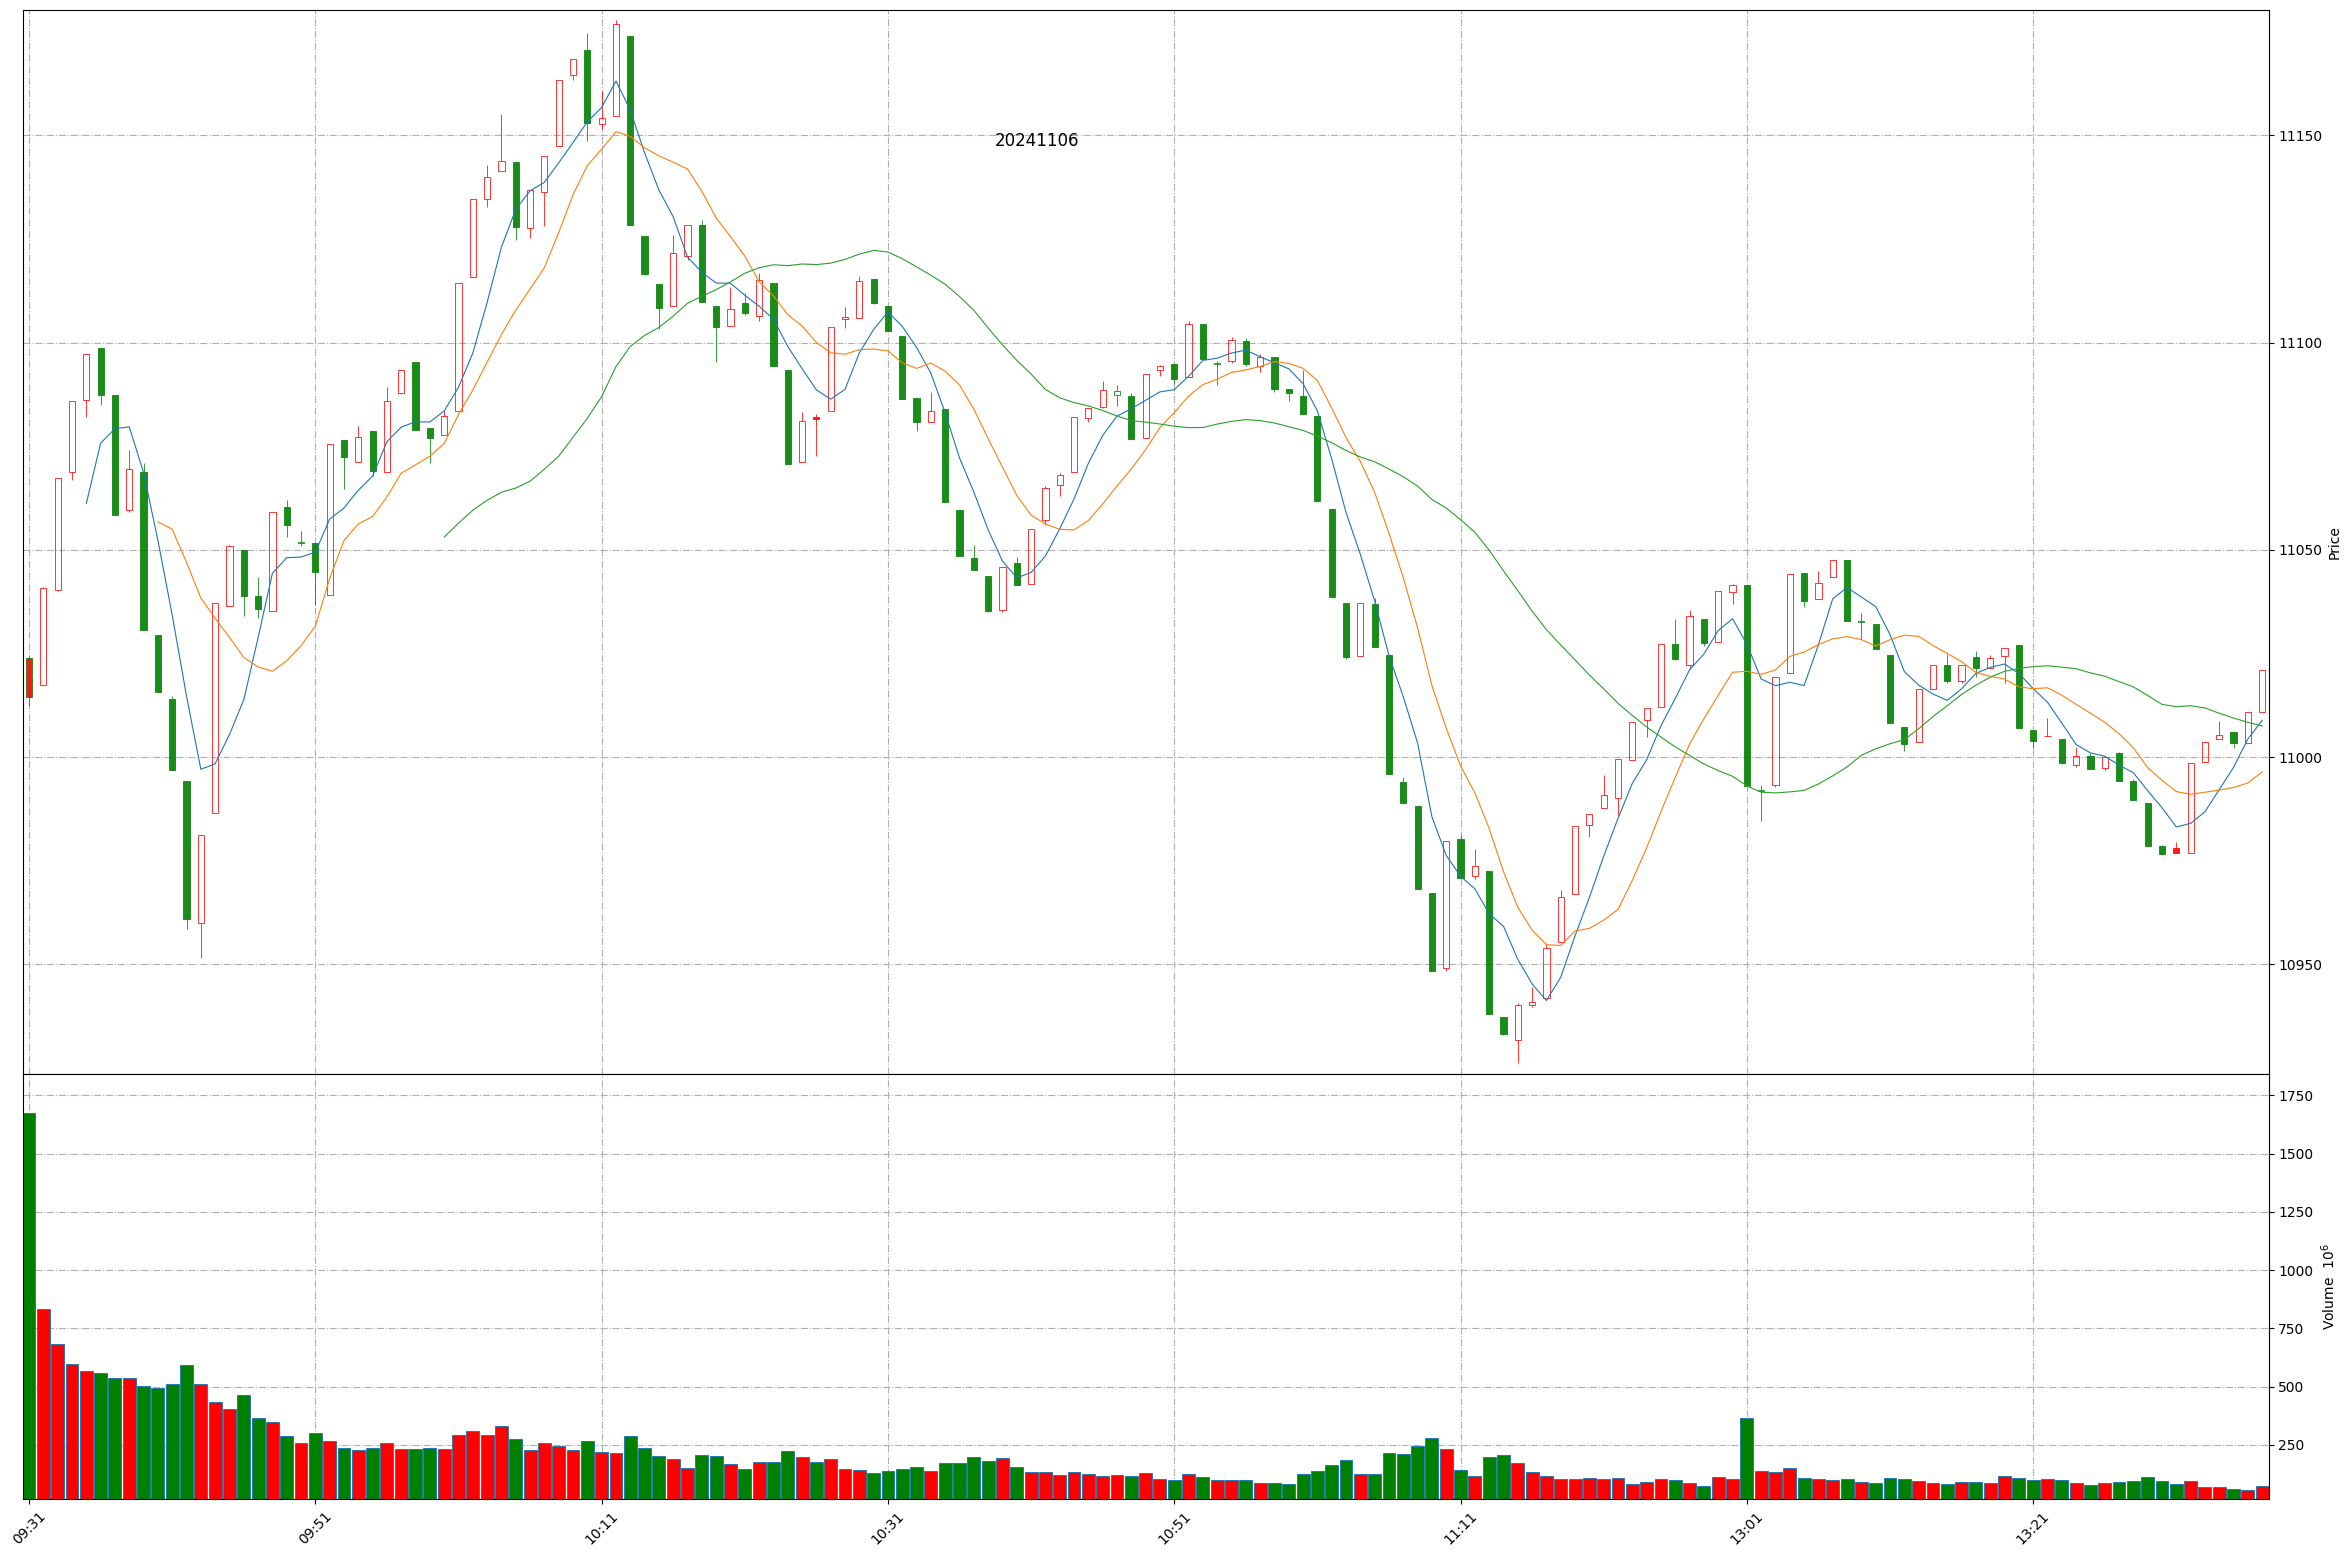
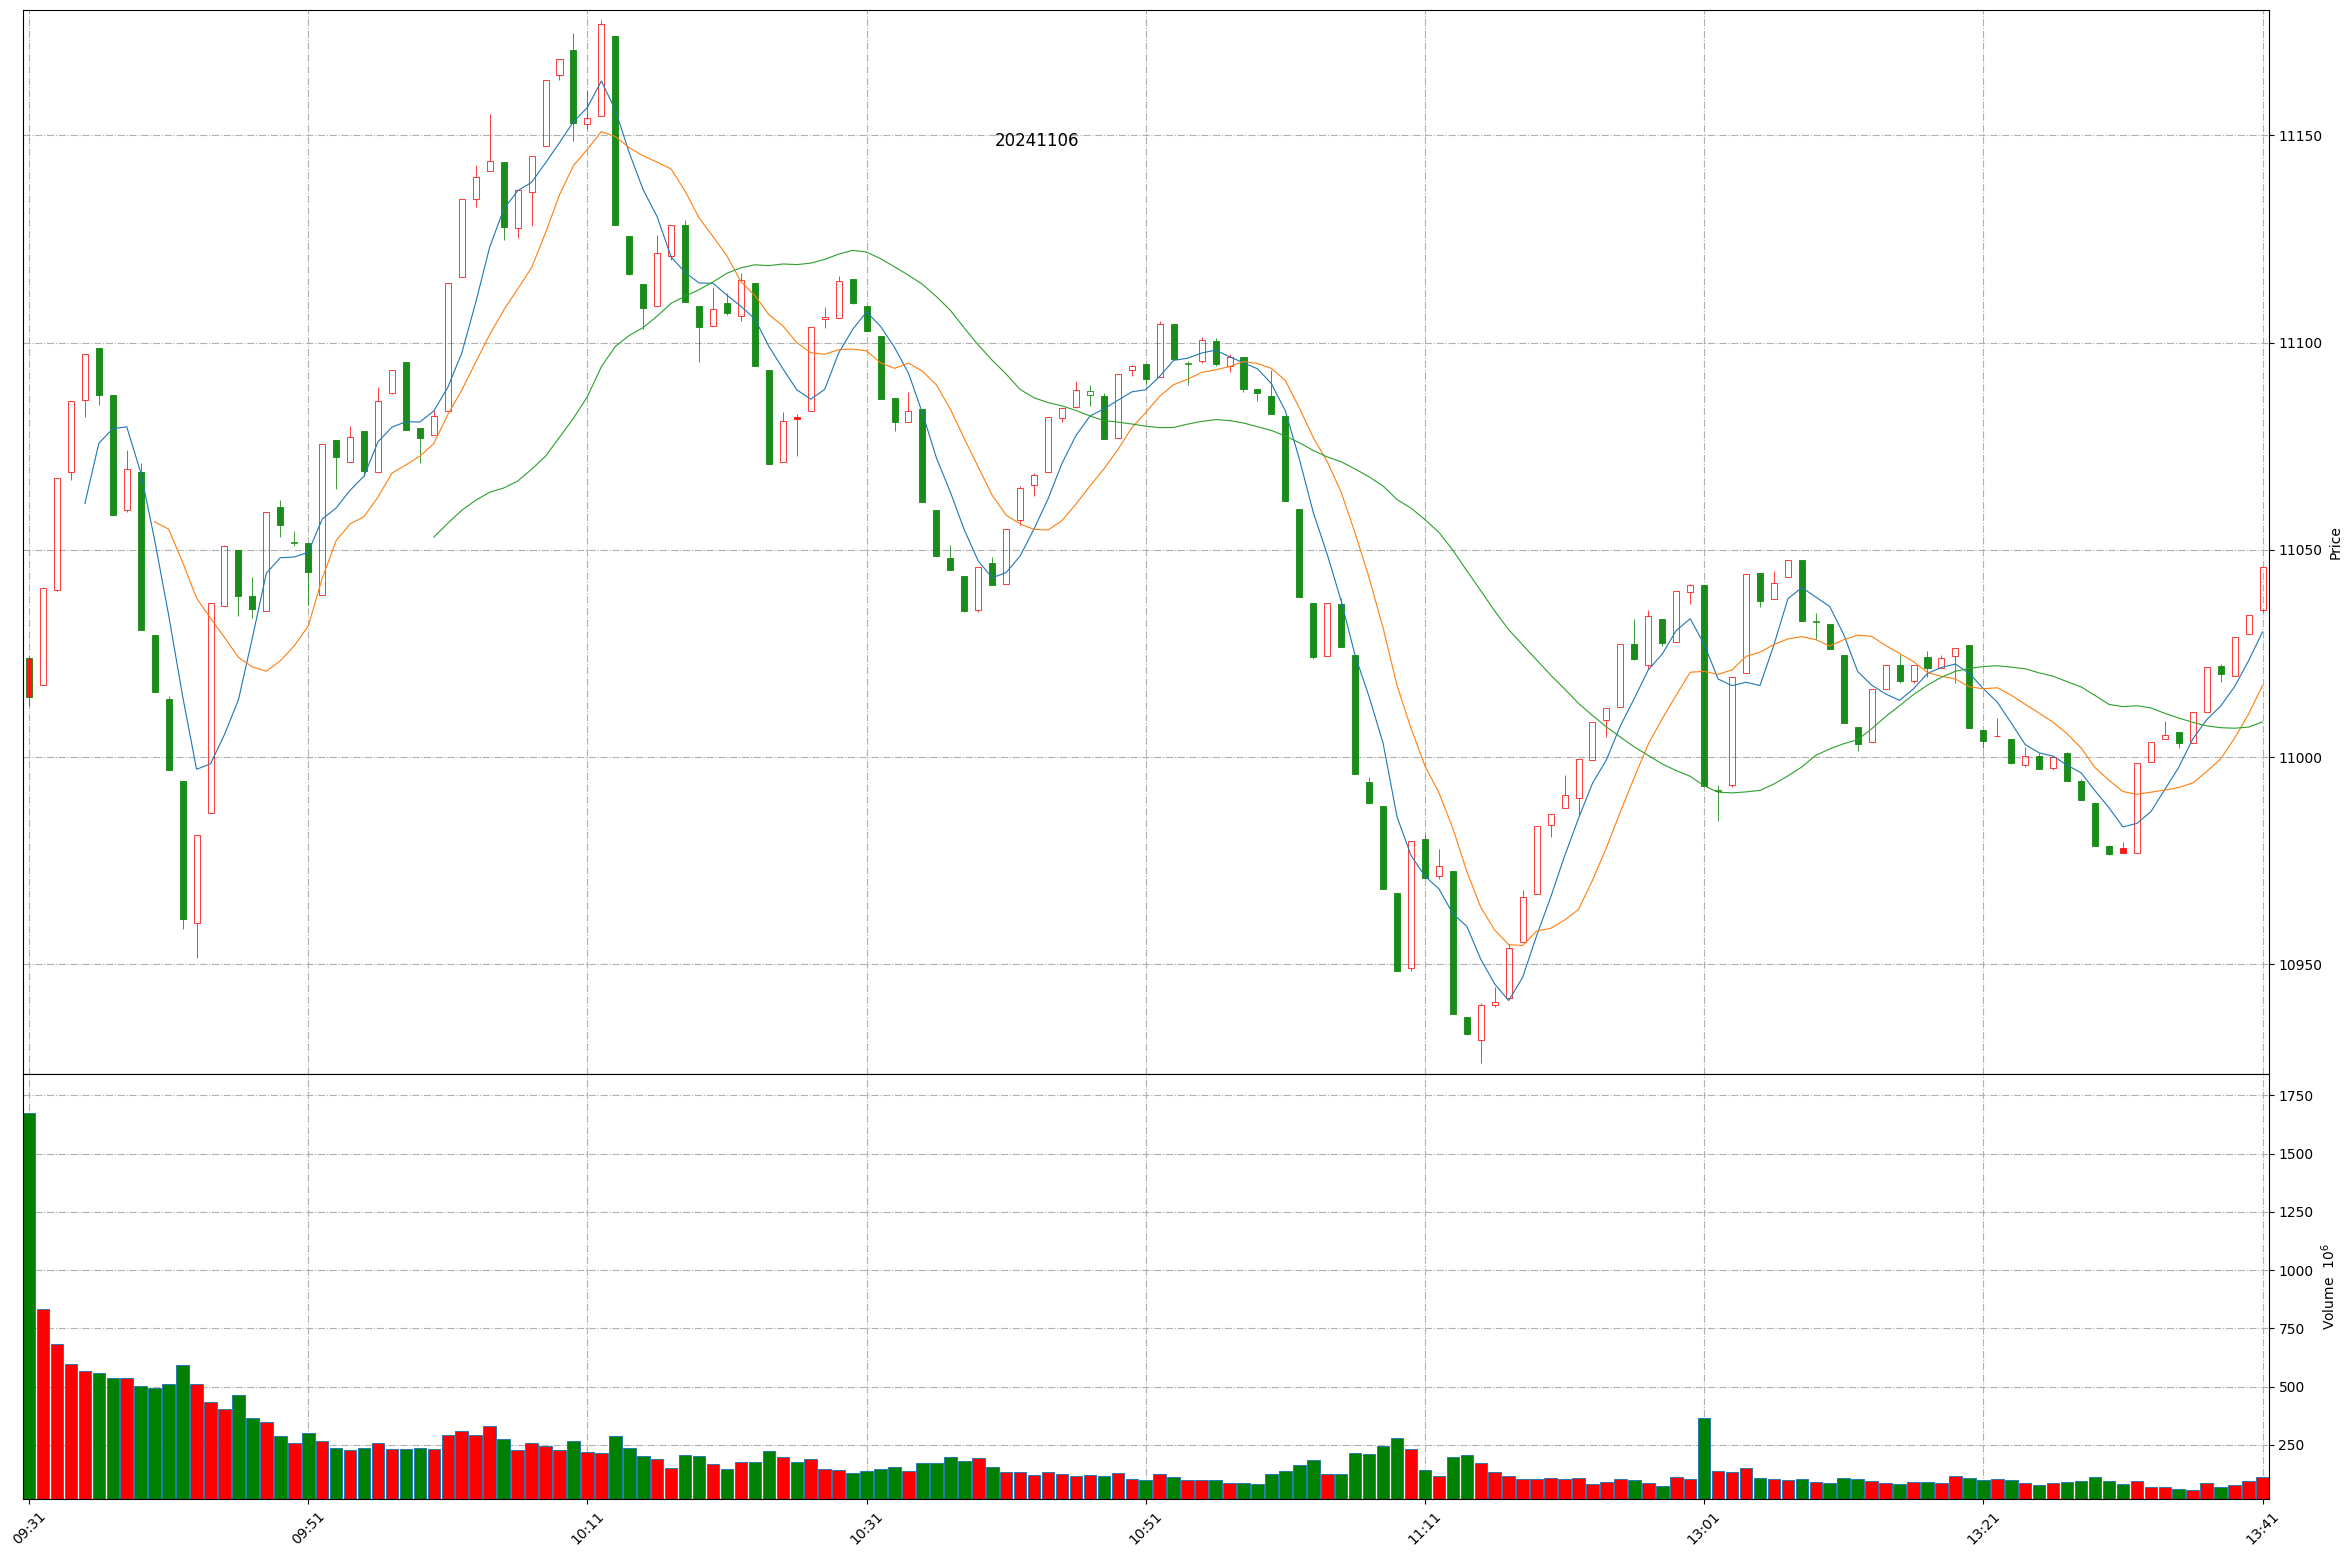
Github action update at 2024-11-06 13:41:11.

diff --git a/README.md b/README.md
@@ -1,11 +1,11 @@
 
 # Daily-A-share-market-quotes 每日 A 股指数（5min 更新）- 20241106
 
-### 上证指数 20241106 13:37
+### 上证指数 20241106 13:41
 ![](./fig/2024/11/20241106-sh000001.png)
 
-### 深证成指 20241106 13:37
+### 深证成指 20241106 13:41
 ![](./fig/2024/11/20241106-sz399001.png)
 
-### 北证50 20241106 13:37
+### 北证50 20241106 13:41
 ![](./fig/2024/11/20241106-bj899050.png)
